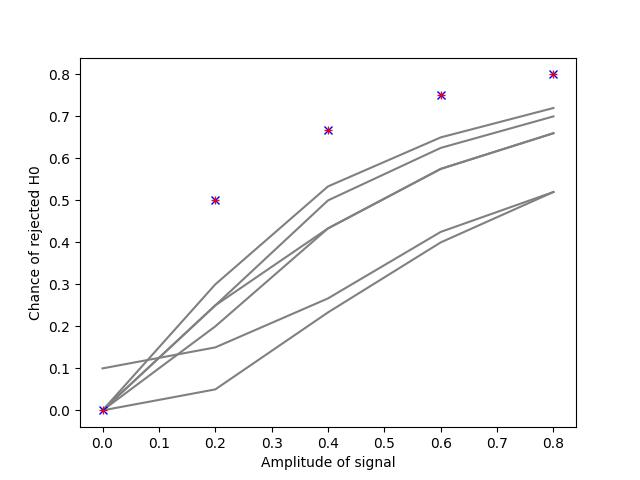
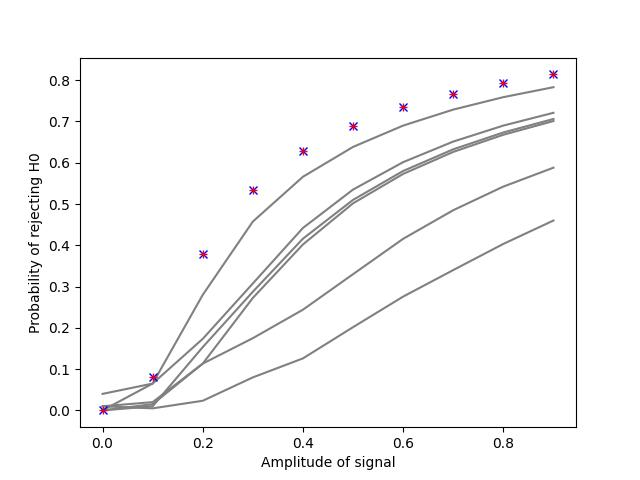
run simulations for combination across orders

diff --git a/sim_isc.py b/sim_isc.py
@@ -13,7 +13,7 @@ import scipy
 
 ntp=200
 nsubj=20
-nsim = 10
+nsim = 100
 norder = 6  # normally the voxels dimension, here I'm using it for our different orders
 
 amp_noise_mean = 2
@@ -31,7 +31,7 @@ allp_ew=[]
 
 df=pd.DataFrame()
 
-for amp_sig in np.arange(0,1,0.2):
+for amp_sig in np.arange(0,1,0.1):
         
     for simind in range(nsim):
         y=np.zeros((ntp, norder, nsubj)) 
